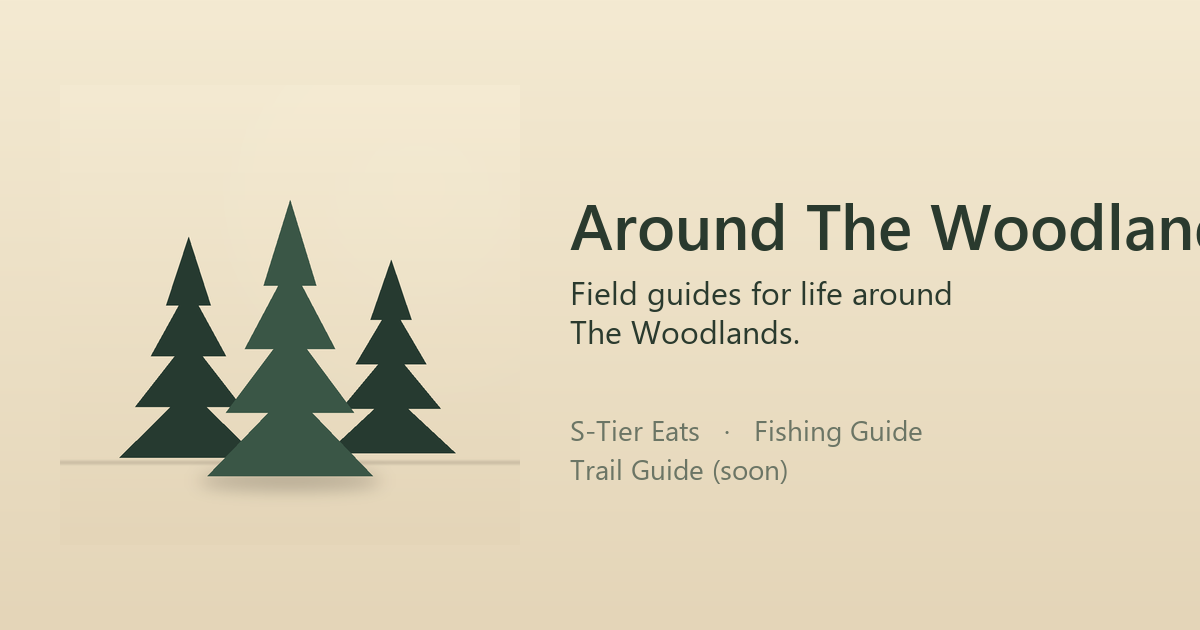
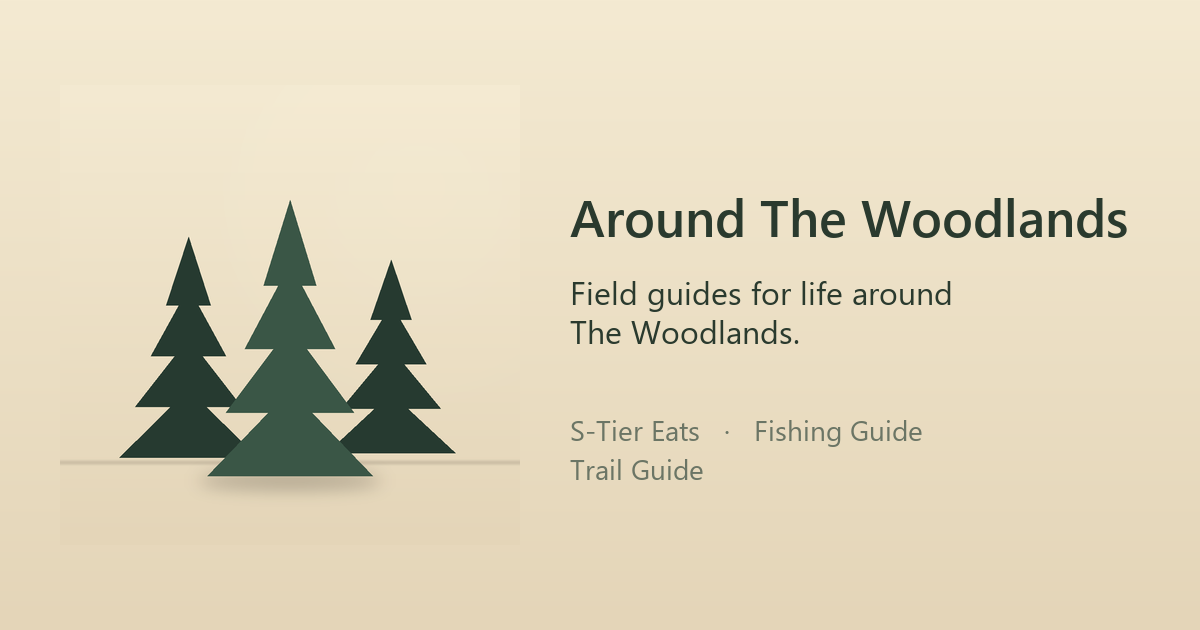
Refresh app cards: S-Tier Eats Android, Pupdoku fix, share image
- S-Tier Eats: 4,700+ restaurants and a separate Google Play card
- Pupdoku: correct name and description (was Pupduko, sudoku)
- Rewrite Fishing Guide, Trail Guide and Cosmica copy from the live store listings
- README: Trail Guide is live; list Android and Also by the developer apps
- og-image: drop Trail Guide (soon) and fit the title to the card width

Changed region(s): [[0.4625, 0.3016, 1.0, 0.4222], [0.5858, 0.7238, 0.6475, 0.7841]]

diff --git a/index.html b/index.html
@@ -240,16 +240,25 @@
         <span class="app-mark">STE</span>
         <span class="app-text">
           <p class="app-name">S-Tier Eats</p>
-          <p class="app-desc">2,600+ restaurants on a classic S/A/B/C/F tier list.</p>
+          <p class="app-desc">4,700+ restaurants ranked on a classic S/A/B/C/F tier list.</p>
         </span>
         <span class="app-arrow" aria-hidden="true">›</span>
+      </a>
+
+      <a class="app-card" href="https://play.google.com/store/apps/details?id=com.compofelice.stiereats" aria-label="Open S-Tier Eats on Google Play">
+        <span class="app-mark">STE</span>
+        <span class="app-text">
+          <p class="app-name">S-Tier Eats for Android</p>
+          <p class="app-desc">The same community rankings, now on Google Play.</p>
+        </span>
+        <span class="app-arrow" aria-hidden="true">&rsaquo;</span>
       </a>
 
       <a class="app-card" href="https://apps.apple.com/us/app/the-woodlands-fishing-guide/id6773332173" aria-label="Open The Woodlands Fishing Guide on the App Store">
         <span class="app-mark">WFG</span>
         <span class="app-text">
           <p class="app-name">The Woodlands Fishing Guide</p>
-          <p class="app-desc">81 lake &amp; pond spots with live weather and a catch log.</p>
+          <p class="app-desc">81 hand-picked fishing spots with access, species and weather.</p>
         </span>
         <span class="app-arrow" aria-hidden="true">›</span>
       </a>
@@ -258,7 +267,7 @@
         <span class="app-mark">WTG</span>
         <span class="app-text">
           <p class="app-name">Woodlands Trail Guide</p>
-          <p class="app-desc">Every named trail in the township &mdash; 1,564 ways, 206 miles.</p>
+          <p class="app-desc">Turn-by-turn navigation on 200+ miles of Woodlands pathway.</p>
         </span>
         <span class="app-arrow" aria-hidden="true">&rsaquo;</span>
       </a>
@@ -271,16 +280,16 @@
         <span class="app-mark app-mark--cosmic">COS</span>
         <span class="app-text">
           <p class="app-name">Cosmica: Idle Universe</p>
-          <p class="app-desc">A quiet idle game &mdash; generators, events, and a growing cosmic tree.</p>
+          <p class="app-desc">Idle galaxy that plays itself, with automation and a Cosmic Tree.</p>
         </span>
         <span class="app-arrow" aria-hidden="true">&rsaquo;</span>
       </a>
 
-      <a class="app-card" href="https://apps.apple.com/us/app/pupduko/id6797896315" aria-label="Open Pupduko on the App Store">
+      <a class="app-card" href="https://apps.apple.com/us/app/id6797896315" aria-label="Open Pupdoku on the App Store">
         <span class="app-mark app-mark--pupdoku">PUP</span>
         <span class="app-text">
-          <p class="app-name">Pupduko</p>
-          <p class="app-desc">Puppy-themed sudoku. 4&times;4, 6&times;6, and classic 9&times;9.</p>
+          <p class="app-name">Pupdoku</p>
+          <p class="app-desc">Find the hidden puppies in a cozy logic puzzle, 5&times;5 up to 9&times;9.</p>
         </span>
         <span class="app-arrow" aria-hidden="true">&rsaquo;</span>
       </a>

diff --git a/scripts/build_assets.py b/scripts/build_assets.py
@@ -64,6 +64,13 @@ def make_og_image(icon: Image.Image) -> Image.Image:
     reg  = ["segoeui.ttf", "Georgia", "arial.ttf", "DejaVuSans.ttf"]
 
     title_font = find_font(bold, 64)
+    # The title is wider than the right column at 64px and clipped at the
+    # card edge, so shrink it until it fits.
+    max_title_w = W - text_x - 50
+    size = 64
+    while size > 40 and draw.textlength("Around The Woodlands", font=title_font) > max_title_w:
+        size -= 2
+        title_font = find_font(bold, size)
     sub_font   = find_font(reg, 32)
     list_font  = find_font(reg, 28)
 
@@ -73,7 +80,7 @@ def make_og_image(icon: Image.Image) -> Image.Image:
               "Field guides for life around\nThe Woodlands.",
               font=sub_font, fill=TEXT_DARK)
     draw.text((text_x, 410),
-              "S-Tier Eats   ·   Fishing Guide\nTrail Guide (soon)",
+              "S-Tier Eats   ·   Fishing Guide\nTrail Guide",
               font=list_font, fill=TEXT_MUTED, spacing=8)
 
     return img

diff --git a/README.md b/README.md
@@ -9,9 +9,14 @@ Link-in-bio landing page for [@aroundwoodlandstx](https://instagram.com/aroundwo
 Single-page static site, no framework, no JS. Pure HTML + inline CSS for fast load and zero third-party dependencies.
 
 Apps linked:
-- **S-Tier Eats** — https://apps.apple.com/app/id6773501518
+- **S-Tier Eats** (iPhone) — https://apps.apple.com/app/id6773501518
+- **S-Tier Eats for Android** — https://play.google.com/store/apps/details?id=com.compofelice.stiereats
 - **The Woodlands Fishing Guide** — https://apps.apple.com/us/app/the-woodlands-fishing-guide/id6773332173
-- **Woodlands Trail Guide** — coming soon
+- **Woodlands Trail Guide** — https://apps.apple.com/us/app/woodlands-trail-guide/id6785576912
+
+Also by the developer:
+- **Cosmica: Idle Universe** — https://apps.apple.com/us/app/cosmica-idle-universe/id6784340038
+- **Pupdoku: Puppy Puzzles** — https://apps.apple.com/us/app/id6797896315
 
 Plus the Ko-fi tip jar ([ko-fi.com/subtlefoodie](https://ko-fi.com/subtlefoodie)).
 
@@ -41,4 +46,8 @@ To enable on a fresh fork: Settings -> Pages -> Source: `main`, folder: `/ (root
 
 ## Updating apps
 
-When the Trail Guide ships, replace the `disabled` card in `index.html` with a real `<a class="app-card" href="...">` (mirror the other two), drop the App Store URL in, commit and push. Pages redeploys automatically.
+Each app is one `<a class="app-card" href="...">` block in `index.html`. To add a store link or a new app, copy an existing card, change the mark, name, description and URL, then commit and push. Pages redeploys automatically. A second platform gets its own card, as with S-Tier Eats for Android.
+
+Write descriptions from the live store listing (the App Store page carries the full text), not from memory, and only claim features that ship on that platform. Only link apps that have a public store listing; Play closed-test apps return 404.
+
+If an app name appears in the share image, change the text in `scripts/build_assets.py` and re-render only `og-image.png`. Running the whole script also rewrites the icons.
